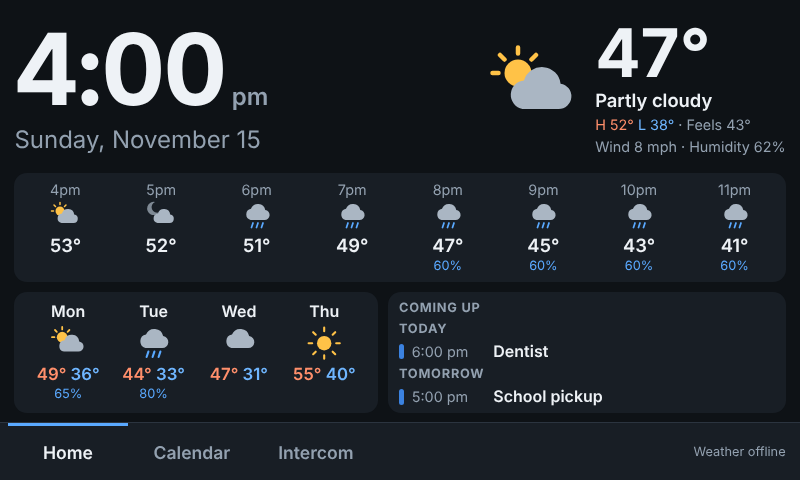
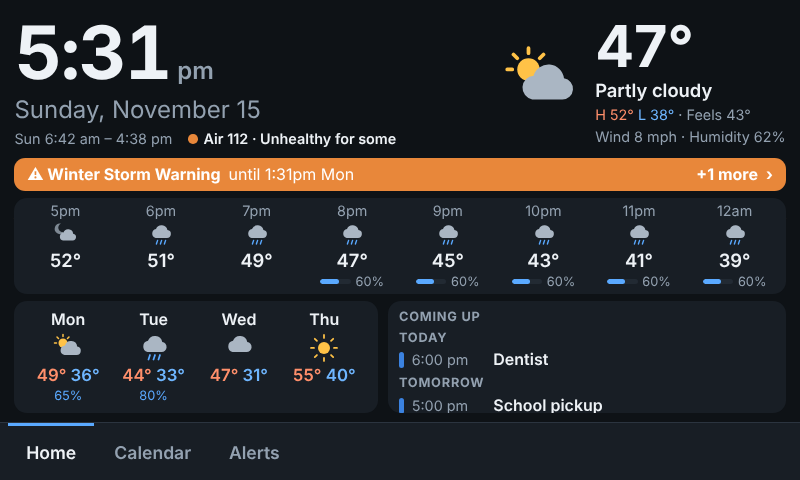
Add weather alerts, air quality, sunrise and sunset, and rain bars
- National Weather Service alerts show as a banner on Home with the
  full text on a tap; new severe ones also go up as alert pages.
- Air quality index and today's sunrise and sunset under the date.
- Each hour's chance of rain has a small bar.
- The picture of the day is no longer fetched with the screensaver off.

Claude-Session: https://claude.ai/code/session_01VazsNMDmJGy9YBdyJERZeH

diff --git a/touchframe/web/app.css b/touchframe/web/app.css
@@ -59,7 +59,7 @@ nav .playing:not([hidden]) + .status { margin-left: .6rem; }
 /* ---------- home ---------- */
 #home { flex-direction: column; gap: .6rem; }
 .top { display: flex; align-items: center; justify-content: space-between; gap: 1rem; flex: 1.25; min-height: 0; }
-.time { font-size: 6.2rem; font-weight: 700; line-height: 1; letter-spacing: -.02em; font-variant-numeric: tabular-nums; }
+.time { font-size: 5.6rem; font-weight: 700; line-height: 1; letter-spacing: -.02em; font-variant-numeric: tabular-nums; }
 #ampm { font-size: 1.5rem; font-weight: 600; color: var(--muted); margin-left: .4rem; letter-spacing: 0; }
 .date { font-size: 1.5rem; color: var(--muted); margin-top: .35rem; }
 
@@ -269,3 +269,30 @@ nav > button { min-width: 5.4rem; }
 .stream { min-width: 0; }
 .stream-title { font-weight: 600; overflow: hidden; text-overflow: ellipsis; white-space: nowrap; }
 .stream-sub { font-size: .8rem; color: var(--muted); }
+
+/* ---------- weather extras ---------- */
+.sun { display: flex; white-space: nowrap; gap: 1rem; margin-top: .3rem; font-size: .9rem; color: var(--muted); }
+.air::before { content: ""; display: inline-block; width: .6rem; height: .6rem; border-radius: 50%; margin-right: .35rem; background: var(--c-green); }
+.air.level-1::before { background: var(--sev-2); } .air.level-2::before { background: var(--sev-3); } .air.level-3::before { background: var(--sev-4); }
+.air.level-2, .air.level-3 { color: var(--text); font-weight: 600; }
+.hour .rain { display: flex; align-items: center; gap: .3rem; color: var(--muted); }
+.rain-track { width: 1.9rem; height: .3rem; border-radius: .2rem; background: var(--raised); overflow: hidden; }
+.rain-fill { display: block; height: 100%; border-radius: .2rem; background: var(--rain); }
+.warn-banner {
+  flex: none; display: flex; align-items: center; gap: .5rem; width: 100%; padding: .4rem .8rem; border-radius: .7rem;
+  text-align: left; font-size: 1rem; background: var(--sev-2); color: #201800; white-space: nowrap; overflow: hidden;
+}
+.warn-banner.severe { background: var(--sev-3); color: #fff; } .warn-banner.extreme { background: var(--sev-5); color: #fff; }
+.warn-banner .more { margin-left: auto; font-weight: 700; } .warn-banner .more + .more { margin-left: 0; }
+.detail-box { background: var(--surface); border-radius: 1rem; padding: 1rem 1.2rem; width: 44rem; max-width: 94vw; max-height: 90vh; display: flex; flex-direction: column; gap: .8rem; }
+.detail-text { overflow-y: auto; scrollbar-width: none; user-select: text; }
+.detail-text h1 { font-size: 1.3rem; margin-top: .6rem; } .detail-text h1:first-child { margin-top: 0; }
+.detail-text p { margin-top: .4rem; white-space: pre-line; }
+.detail-box button { flex: none; padding: .8rem; border-radius: .8rem; font-size: 1.1rem; font-weight: 700; background: var(--raised); }
+#home.warned { gap: .4rem; }
+#home.warned .time { font-size: 4.6rem; }
+#home.warned .now .icon { width: 5rem; height: 5rem; }
+#home.warned .now .temp { font-size: 3.6rem; }
+#home.warned .hours { padding: .3rem .2rem; }
+#home.warned .hour .icon { width: 1.6rem; height: 1.6rem; }
+#home.warned .day .icon { width: 2rem; height: 2rem; }

diff --git a/touchframe/web/app.js b/touchframe/web/app.js
@@ -115,7 +115,16 @@ function drawWeather() {
       h("div", { class: "when" }, clockText(new Date(hr.time), true)),
       icon(hr.kind, hr.day),
       h("div", { class: "t" }, deg(hr.temp)),
-      h("div", { class: "rain" }, hr.rain >= 10 ? `${hr.rain}%` : ""))));
+      h("div", { class: "rain" }, hr.rain >= 10 && [
+        h("span", { class: "rain-track" }, h("span", { class: "rain-fill", style: `width:${hr.rain}%` })),
+        `${hr.rain}%`]))));
+
+  // Under the date: sunrise and sunset, and the air.
+  const air = weather.air;
+  put($("sun"),
+    today && today.sunrise && today.sunset &&
+      h("span", {}, `Sun ${clockText(new Date(today.sunrise))} – ${clockText(new Date(today.sunset))}`),
+    air && h("span", { class: `air level-${air.level}` }, `Air ${air.index} · ${air.label}`));
 
   days.replaceChildren(...weather.days.slice(1, 5).map(d =>
     h("div", { class: "day" },
@@ -127,6 +136,32 @@ function drawWeather() {
   if (settings.theme === "auto") document.documentElement.dataset.theme = cur.day ? "light" : "dark";
   drawStatus();
 }
+
+// Weather Service alerts: a banner on Home, and the full words on a tap.
+function drawWarnings() {
+  const list = state ? state.warnings : [];
+  const el = $("warn");
+  el.hidden = !list.length;
+  $("home").classList.toggle("warned", list.length > 0);    // makes room for the banner
+  if (!list.length) return;
+  const first = list[0];
+  let until = "";
+  if (first.ends) {
+    const d = new Date(first.ends);
+    until = ` until ${clockText(d, true)}` + (ymd(d) === ymd(new Date()) ? "" : ` ${WEEKDAYS[d.getDay()].slice(0, 3)}`);
+  }
+  el.className = `warn-banner ${first.severity}`;
+  put(el, h("b", {}, `⚠ ${first.event}`), until, list.length > 1 && h("span", { class: "more" }, `+${list.length - 1} more`), h("span", { class: "more" }, "›"));
+  el.onclick = () => {
+    put($("detail-text"), list.map(a => [
+      h("h1", {}, a.event),
+      a.headline && h("p", { class: "muted" }, a.headline),
+      a.description && h("p", {}, a.description),
+      a.instruction && h("p", {}, h("b", {}, a.instruction))]));
+    $("detail").hidden = false;
+  };
+}
+$("detail-close").addEventListener("click", () => { $("detail").hidden = true; });
 
 // ---------- calendar ----------
 /** Events from now on, grouped by day, as InkFrame does: [[Date, [event...]]...]. */
@@ -589,7 +624,7 @@ function touched() {
   clearTimeout(idleTimer);
   if ($("saver").hidden) armSaver();
   if (settings.idle_home_seconds > 0) {
-    idleTimer = setTimeout(() => { $("confirm").hidden = true; show("home"); }, settings.idle_home_seconds * 1000);
+    idleTimer = setTimeout(() => { $("confirm").hidden = true; $("detail").hidden = true; show("home"); }, settings.idle_home_seconds * 1000);
   }
   if (Date.now() - lastWake > 20000) {
     lastWake = Date.now();
@@ -623,7 +658,7 @@ function listen() {
   es.addEventListener("state", e => {
     state = JSON.parse(e.data);
     state.at = Date.now();
-    drawIntercom(); drawAlerts(); drawLab(); drawPage(); drawStatus();
+    drawIntercom(); drawAlerts(); drawLab(); drawWarnings(); drawPage(); drawStatus();
   });
 }
 

diff --git a/touchframe/web/index.html b/touchframe/web/index.html
@@ -13,9 +13,11 @@
       <div class="clock">
         <div class="time"><span id="time">--:--</span><span id="ampm"></span></div>
         <div class="date" id="date"></div>
+        <div class="sun" id="sun"></div>
       </div>
       <div class="now" id="now"></div>
     </div>
+    <button class="warn-banner" id="warn" hidden></button>
     <div class="hours" id="hours"></div>
     <div class="bottom">
       <div class="days" id="days"></div>
@@ -83,6 +85,13 @@
   <div class="page-name" id="page-name"></div>
   <div class="page-text" id="page-text"></div>
   <div class="page-hint" id="page-hint"></div>
+</div>
+
+<div class="confirm" id="detail" hidden>
+  <div class="detail-box">
+    <div class="detail-text" id="detail-text"></div>
+    <button id="detail-close">Close</button>
+  </div>
 </div>
 
 <div class="confirm" id="confirm" hidden>

diff --git a/touchframe/warnings.py b/touchframe/warnings.py
@@ -1,0 +1,110 @@
+"""Severe weather alerts from the US National Weather Service (api.weather.gov, no key).
+
+Active alerts for the configured location are shown as a banner on Home. A new
+warning that is severe enough also goes up as an alert page. Outside the US
+the service has nothing to say, and this stays quiet.
+"""
+import json
+import logging
+import threading
+import time
+import urllib.parse
+import urllib.request
+from datetime import datetime
+
+log = logging.getLogger(__name__)
+
+API = "https://api.weather.gov/alerts/active"
+HEADERS = {"User-Agent": "TouchFrame/1.0 (Raspberry Pi wall display)",
+           "Accept": "application/geo+json"}
+RANK = {"extreme": 4, "severe": 3, "moderate": 2, "minor": 1}
+EVERY = 300             # seconds between looks
+
+
+class Warnings:
+    def __init__(self, cfg, state_dir, alerts, on_change):
+        self.cfg = cfg["weather"]
+        self.enabled = bool(self.cfg["warnings"])
+        self.alerts = alerts
+        self.on_change = on_change
+        self.file = state_dir / "warnings.json"
+        self._active = []
+        self._paged = set()             # events already put up as pages, while they last
+        try:
+            self._paged = set(json.loads(self.file.read_text()))
+        except (OSError, ValueError):
+            pass
+        self._lock = threading.Lock()
+
+    def _fetch(self):
+        point = f"{self.cfg['latitude']:.4f},{self.cfg['longitude']:.4f}"
+        req = urllib.request.Request(API + "?" + urllib.parse.urlencode({"point": point}),
+                                     headers=HEADERS)
+        with urllib.request.urlopen(req, timeout=30) as resp:
+            features = json.load(resp).get("features", [])
+        out = []
+        for f in features:
+            p = f.get("properties", {})
+            if p.get("status") != "Actual" or p.get("messageType") == "Cancel":
+                continue
+            out.append({
+                "id": p.get("id", ""), "event": p.get("event", "Weather alert"),
+                "severity": str(p.get("severity", "")).lower(),
+                "headline": p.get("headline") or "",
+                "description": p.get("description") or "",
+                "instruction": p.get("instruction") or "",
+                "ends": p.get("ends") or p.get("expires")})
+        out.sort(key=lambda a: -RANK.get(a["severity"], 0))
+        return out
+
+    def _page(self, active):
+        """New events at or above page_severity go up as pages: once each, however
+        often the Weather Service updates them, and not again after a restart."""
+        floor = RANK.get(str(self.cfg["page_severity"]).lower())
+        events = {a["event"] for a in active}
+        for a in active:
+            rank = RANK.get(a["severity"], 0)
+            if floor and rank >= floor and a["event"] not in self._paged:
+                self._paged.add(a["event"])
+                text = [a["event"]]
+                if a["ends"]:
+                    try:
+                        ends = datetime.fromisoformat(a["ends"]).astimezone()
+                        text.append("until " + ends.strftime("%-I:%M %p %A").replace(":00", ""))
+                    except ValueError:
+                        pass
+                self.alerts.show(f"nws:{a['id']}", "Weather Service", "Weather alert", text,
+                                 priority="emergency" if rank == 4 else "high",
+                                 until_ms=int(time.time() * 1000) + self.cfg["page_seconds"] * 1000)
+        if self._paged - events:
+            self._paged &= events       # over: the next one of its kind pages again
+        try:
+            self.file.write_text(json.dumps(sorted(self._paged)))
+        except OSError:
+            pass
+
+    def _run(self):
+        failing = False
+        while True:
+            try:
+                active = self._fetch()
+                failing = False
+                self._page(active)
+                with self._lock:
+                    changed = active != self._active
+                    self._active = active
+                if changed:
+                    self.on_change()
+            except Exception as exc:
+                if not failing:
+                    log.warning("weather alerts: %s", exc)
+                failing = True
+            time.sleep(EVERY)
+
+    def start(self):
+        if self.enabled:
+            threading.Thread(target=self._run, name="warnings", daemon=True).start()
+
+    def snapshot(self):
+        with self._lock:
+            return list(self._active)

diff --git a/touchframe/weather.py b/touchframe/weather.py
@@ -10,6 +10,13 @@ from datetime import datetime
 log = logging.getLogger(__name__)
 
 API = "https://api.open-meteo.com/v1/forecast"
+AIR_API = "https://air-quality-api.open-meteo.com/v1/air-quality"
+
+# Air quality index -> what it means: (up to, label, level 0 good .. 3 bad).
+US_AQI = [(50, "Good", 0), (100, "Moderate", 1), (150, "Unhealthy for some", 2),
+          (200, "Unhealthy", 3), (300, "Very unhealthy", 3), (10**6, "Hazardous", 3)]
+EU_AQI = [(20, "Good", 0), (40, "Fair", 0), (60, "Moderate", 1), (80, "Poor", 2),
+          (100, "Very poor", 3), (10**6, "Extremely poor", 3)]
 
 # WMO weather code -> (label, icon kind). The same table as InkFrame's.
 CODES = {
@@ -40,6 +47,7 @@ class Weather:
         self._at = 0.0
         self._raw = None
         self._stale = False
+        self._air = None
 
     def _fetch(self):
         params = {
@@ -58,6 +66,18 @@ class Weather:
         with urllib.request.urlopen(API + "?" + urllib.parse.urlencode(params), timeout=30) as resp:
             return json.load(resp)
 
+    def _fetch_air(self):
+        """The air quality index now: the US one with imperial units, the European with metric."""
+        index = "european_aqi" if self.metric else "us_aqi"
+        params = {"latitude": self.cfg["latitude"], "longitude": self.cfg["longitude"],
+                  "current": index, "timezone": "auto"}
+        with urllib.request.urlopen(AIR_API + "?" + urllib.parse.urlencode(params), timeout=30) as resp:
+            value = json.load(resp)["current"][index]
+        if value is None:
+            return None
+        label, level = next((l, lv) for top, l, lv in (EU_AQI if self.metric else US_AQI) if value <= top)
+        return {"index": round(value), "label": label, "level": level}
+
     def _load(self):
         """The raw forecast, fetched at most once per interval; the last good one if offline."""
         with self._lock:
@@ -68,6 +88,12 @@ class Weather:
                 self._raw, self._stale = self._fetch(), False
                 self.cache.write_text(json.dumps(self._raw))
                 self._at = now
+                if self.cfg["air_quality"]:
+                    try:
+                        self._air = self._fetch_air()
+                    except Exception as exc:
+                        log.warning("air quality fetch failed (%s)", exc)
+                        self._air = None    # better none than an old one
             except Exception as exc:
                 log.warning("weather fetch failed (%s); using the last forecast", exc)
                 if self._raw is None:
@@ -117,6 +143,7 @@ class Weather:
                 "kind": kind,
                 "day": bool(cur.get("is_day", 1)),
             },
+            "air": self._air,
             "hours": hours,
             "days": days,
         }

diff --git a/touchframe/server.py b/touchframe/server.py
@@ -21,6 +21,7 @@ from .lab import Lab
 from .multicast import Multicast
 from .photos import Photos
 from .screen import Screen
+from .warnings import Warnings
 from .weather import Weather
 
 log = logging.getLogger("touchframe")
@@ -42,6 +43,7 @@ class App:
         self.multicast = Multicast(cfg, self.alerts, self.publish)
         self.lab = Lab(cfg, self.alerts, self.publish)
         self.hooks = Hooks(cfg, self.alerts)
+        self.warnings = Warnings(cfg, state, self.alerts, self.publish)
         self._subs = set()
         self._lock = threading.Lock()
 
@@ -49,6 +51,7 @@ class App:
         """Everything that changes by itself: the intercom, alerts and multicast groups."""
         return {"intercom": self.intercom.snapshot(), "alerts": self.alerts.snapshot(),
                 "multicast": self.multicast.snapshot(), "lab": self.lab.snapshot(),
+                "warnings": self.warnings.snapshot(),
                 "now_ms": int(time.time() * 1000)}
 
     def subscribe(self):
@@ -256,6 +259,7 @@ def main():
     app.intercom.start()
     app.multicast.start()
     app.lab.start()
+    app.warnings.start()
 
     Handler.app = app
     server = ThreadingHTTPServer((host or "127.0.0.1", int(port)), Handler)

diff --git a/touchframe/config.py b/touchframe/config.py
@@ -19,6 +19,10 @@ DEFAULTS = {
         "location_name": "",
         "units": "imperial",        # or "metric"
         "interval_minutes": 15,
+        "air_quality": True,
+        "warnings": True,           # US National Weather Service alerts for this location
+        "page_severity": "severe",  # new ones this severe go up as pages: extreme, severe, moderate, off
+        "page_seconds": 120,
     },
     "calendar": {
         "sources": [],              # iCal links, or tables with url and colour

diff --git a/touchframe/photos.py b/touchframe/photos.py
@@ -39,7 +39,7 @@ class Photos:
     def list(self):
         photos = [{"src": "/photo/" + urllib.parse.quote(p.relative_to(self.folder).as_posix()),
                    "caption": ""} for p in self._files()]
-        if self.cfg["picture_of_the_day"]:
+        if self.cfg["enabled"] and self.cfg["picture_of_the_day"]:
             meta = self._potd()
             if meta:
                 caption = meta["caption"] + (f" · {meta['artist']}" if meta.get("artist") else "")

diff --git a/README.md b/README.md
@@ -6,7 +6,7 @@ A home dashboard for the Raspberry Pi Touch Display (7", 800×480): the time, we
 
 | Tab | |
 | --- | --- |
-| **Home** | The time and date, the weather now, the next 8 hours, the next 4 days, and what's coming up on the calendar |
+| **Home** | The time and date, sunrise and sunset, air quality, the weather now, the next 8 hours with the chance of rain, the next 4 days, weather alerts, and what's coming up on the calendar |
 | **Calendar** | This month, and the next 7 days of events |
 | **Alerts** | Text pages from the intercom, as they arrive and afterwards |
 | **Lab** | Proxmox, AdGuard, UniFi and Plex at a glance, Prometheus targets that are down and Zabbix problems. Shown when any of them is set |
@@ -41,6 +41,12 @@ sudo systemctl start touchframe
 Reboot, and the dashboard opens full screen. `install.sh` makes a Python environment in `.venv`, copies `config.example.toml` to `config.toml`, installs a service that starts on boot, and adds `kiosk.sh` to the desktop's autostart.
 
 `[weather]` and `[calendar]` in `config.toml` take the same settings as InkFrame's, so those sections can be copied across.
+
+## Weather
+
+The forecast and air quality come from Open-Meteo; neither needs a key. Under the date are today's sunrise and sunset and the air quality index (the US index with imperial units, the European one with metric), with a coloured dot and what it means in words.
+
+In the US, active National Weather Service alerts for your location show as a banner on Home, coloured by severity. Tap it for the full text. A new alert that is Severe or Extreme also takes over the screen like any other alert, and lands in the Alerts tab; an Extreme one (a tornado warning, say) is an emergency and stays up until tapped. Each alert takes over the screen once, however often the Weather Service updates it. `page_severity` under `[weather]` changes which do, and `warnings = false` turns them off.
 
 ## Intercom
 
